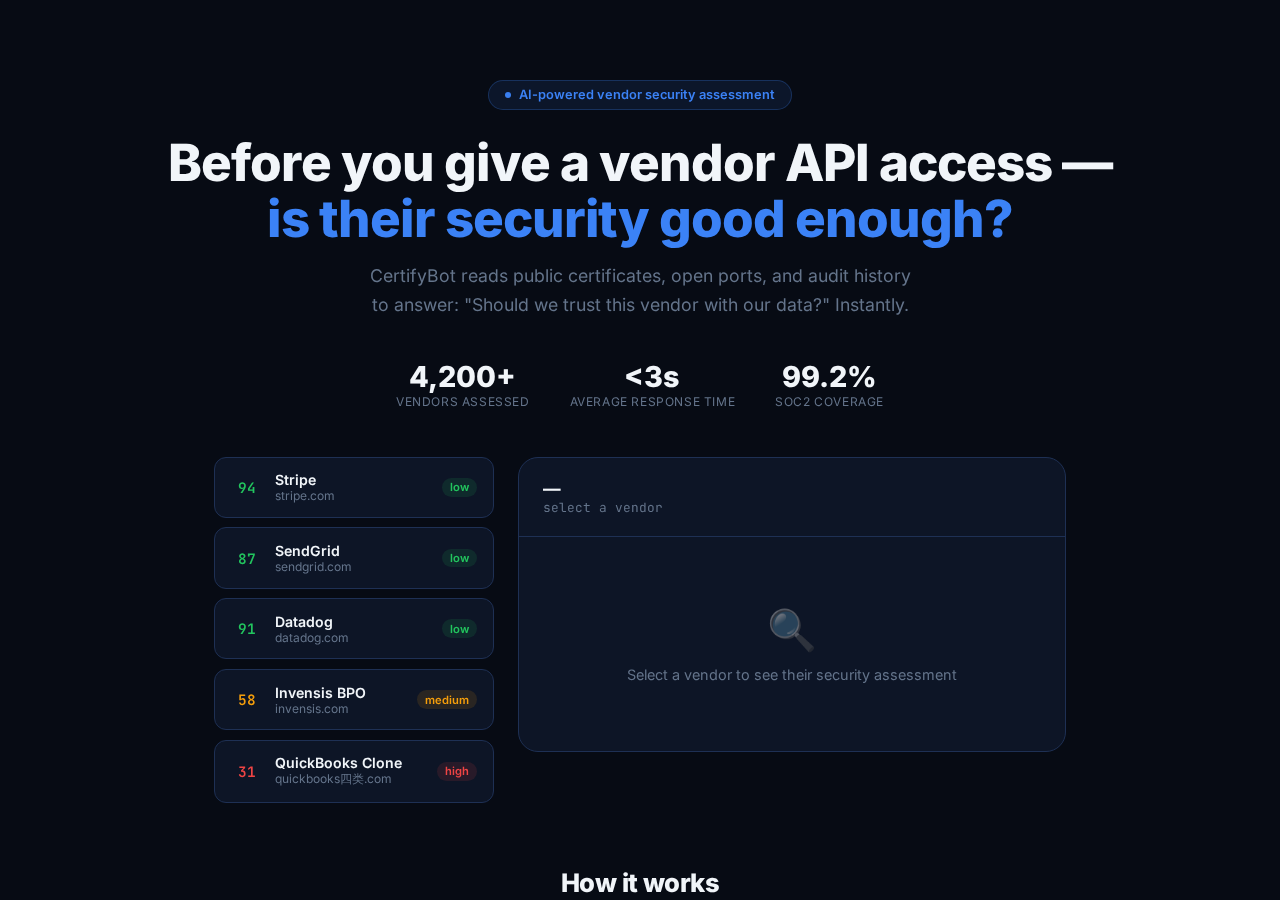
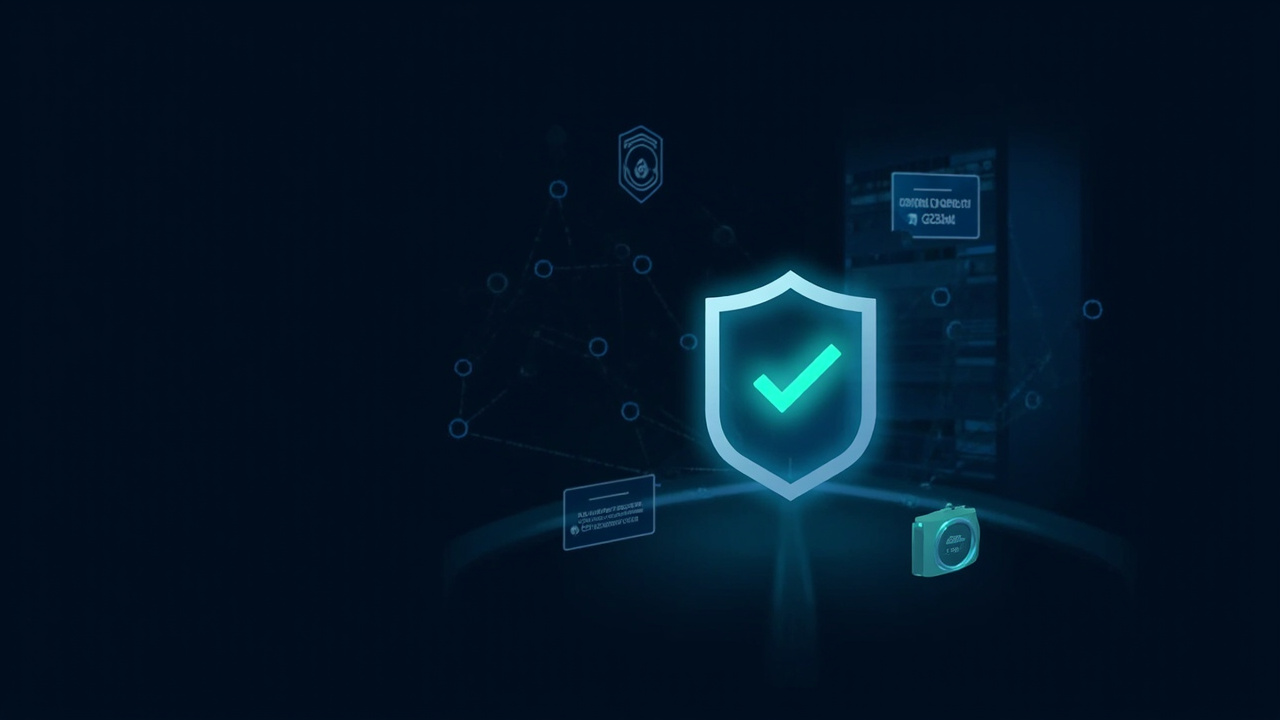
feat(certifybot): AI-generated hero visual, waitlist API, serve landing from /
- assets/certifybot-hero.png: dark-mode cybersecurity dashboard illustration (generated)
- landing.html: hero-img element renders below stats
- backend: POST /api/waitlist stores emails to JSON, / now serves landing.html

diff --git a/landing.html b/landing.html
@@ -26,7 +26,9 @@
     .container { max-width: 1100px; margin: 0 auto; padding: 0 1.5rem; }
 
     /* HERO */
-    .hero { text-align: center; padding: 5rem 1.5rem 3rem; }
+    <!-- HERO -->
+  .hero { text-align: center; padding: 5rem 1.5rem 3rem; }
+  .hero-img { width: 100%; max-width: 860px; border-radius: 20px; margin: 2.5rem auto 0; box-shadow: 0 24px 60px rgba(0,0,0,0.5); border: 1px solid var(--border); display: block; }
     .hero-eyebrow { display: inline-flex; align-items: center; gap: 0.5rem; padding: 0.4rem 1rem; border-radius: 999px; background: rgba(59,130,246,0.1); border: 1px solid rgba(59,130,246,0.25); font-size: 0.8rem; font-weight: 600; color: var(--accent); margin-bottom: 1.5rem; }
     .hero-eyebrow span { width: 6px; height: 6px; border-radius: 50%; background: var(--accent); animation: pulse 2s infinite; }
     @keyframes pulse { 0%,100% { opacity: 1 } 50% { opacity: 0.4 } }
@@ -129,6 +131,7 @@
         <div class="hero-stat"><div class="val">&lt;3s</div><div class="lbl">average response time</div></div>
         <div class="hero-stat"><div class="val">99.2%</div><div class="lbl">SOC2 coverage</div></div>
       </div>
+      <img src="assets/certifybot-hero.png" alt="CertifyBot vendor security assessment dashboard" class="hero-img" loading="eager">
     </div>
   </section>
 